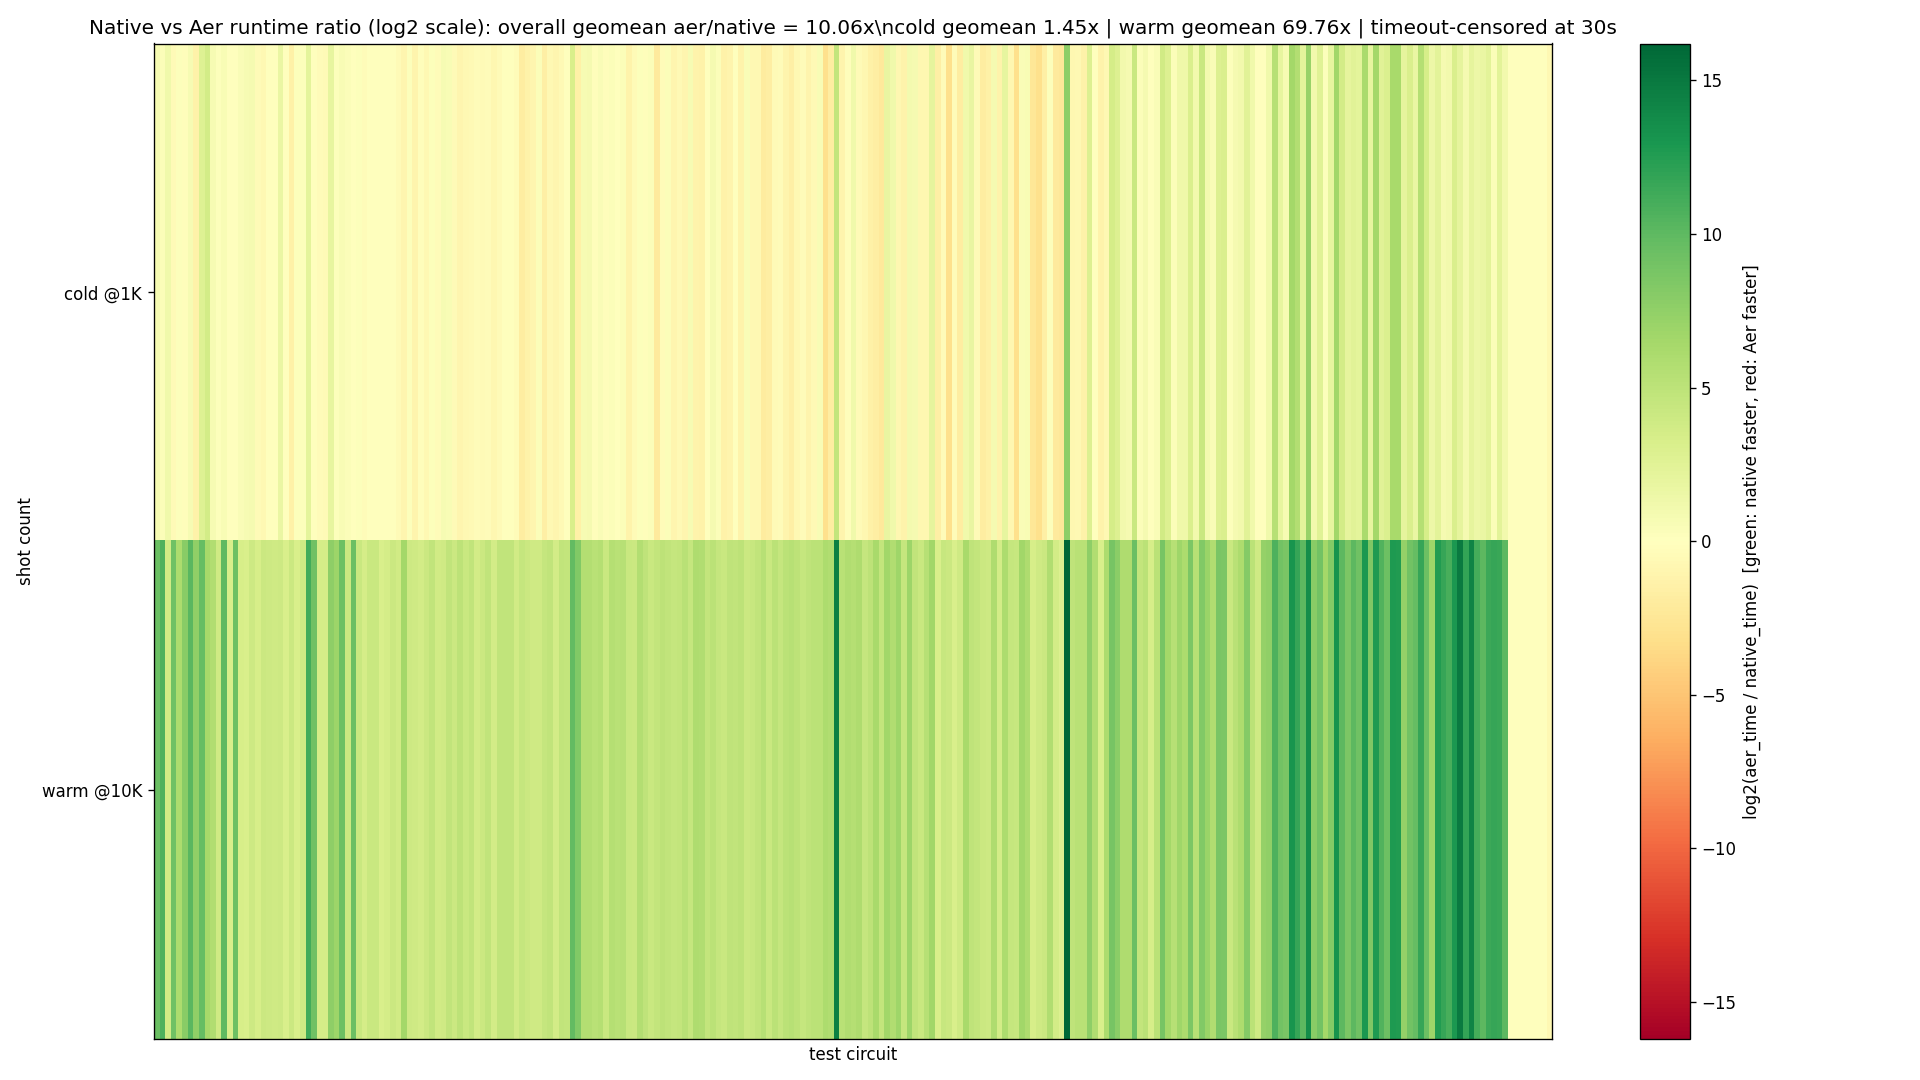
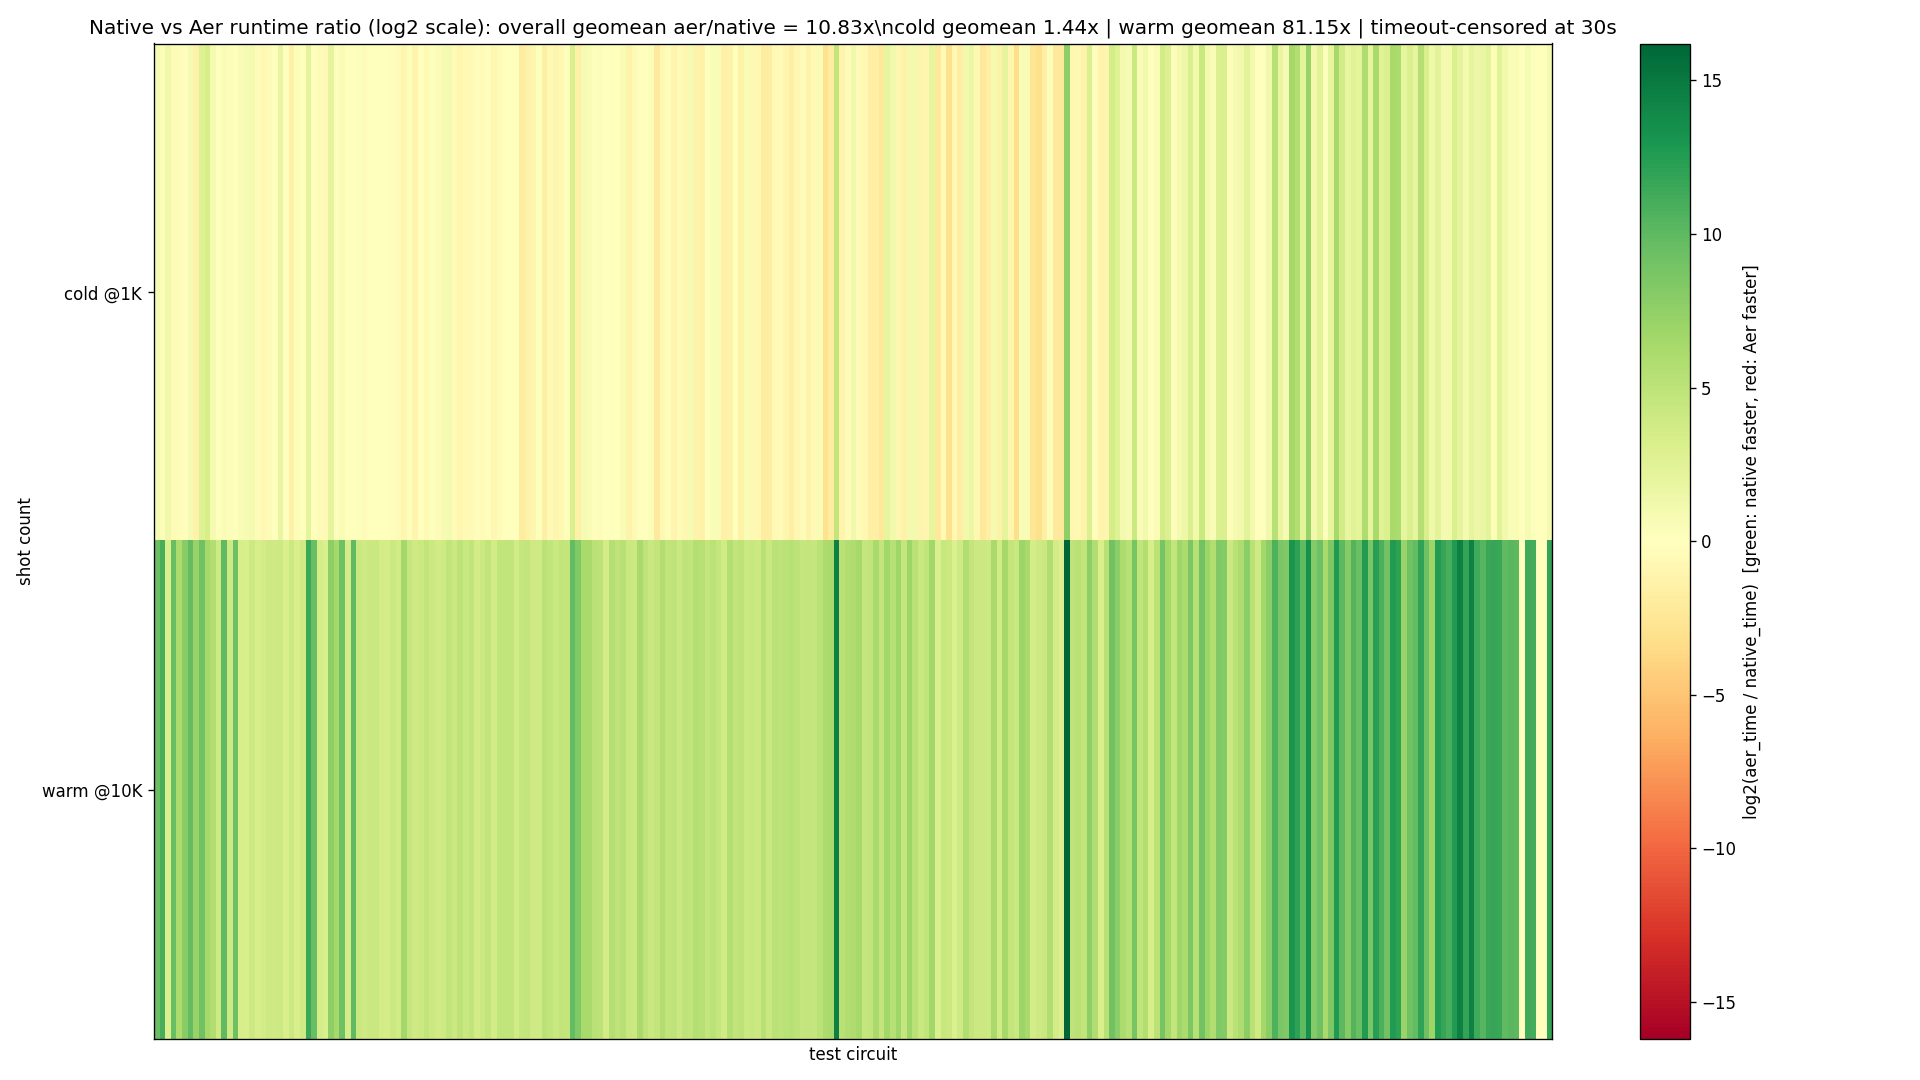
Record 1f90b60 checkpoint and refresh native-vs-aer heatmap

diff --git a/docs/experiment-log.md b/docs/experiment-log.md
@@ -66,3 +66,4 @@ Metric column: core-6 @1000 total for idx 0-24; full-suite @1000 total (complete
 | 47 | `9c51a57` | Added compile-time local monomial-stream fusion (1q/2q diagonal/permutation runs) plus a one-shot MPS kernel (`monomial_stream`) that applies an entire run in one launch by composing source-index mapping and phase per amplitude. This eliminated many repeated full-state passes in the 28q tail (`qpe_large_28` `22.74s→7.38s`, `ising_ordered_28` `18.64s→7.50s`, `w_state_large_28` `7.86s→2.29s` cold) and converted three prior aborts into completes (`clifford_t_28`, `ising_trotter_28`, `vqe_ansatz_28`). Full-suite completion increased (`235→238`), no correctness FAILs among completed cases. Censored native-vs-Aer geomean improved (`8.59x→9.07x`; cold `1.28x→1.35x`, warm `57.68x→61.07x`); aggregate totals rose because those newly completed 28q cases now contribute measured runtime. | 118.10s / 0.26s (238 cases) | Worked (coverage +3, geomean +5.6%; common-set cold 1.61x) |
 | 48 | `7386772` | Added exact compile-time fusion of contiguous local 1q/2q regions bounded to one qubit pair into a single 4x4 gate (no approximation, pure statevector algebra). This collapses decomposed dense SU(4)-style blocks before execution and sharply cuts dense-kernel dispatch count in large static circuits. It unlocked three previously timed-out dense 28q cases (`quantum_volume_28` `timeout→11.07s`, `su4_chain_28` `timeout→5.77s`, `supremacy_28` `timeout→25.07s` cold) while preserving correctness. Completion increased (`238→241`), with the remaining aborts now only the 30q MPSGraph `INT_MAX` runtime-error group. Censored native-vs-Aer geomean crossed 10x overall (`9.07x→10.23x`; cold `1.35x→1.51x`, warm `61.07x→69.45x`). | 121.19s / 0.28s (241 cases) | Worked (coverage +3, geomean +12.8%; common-set cold 1.49x) |
 | 49 | `7f96804` | Removed MPS size gates for the kernelized paths so dense-kernel dispatch and local monomial-stream fusion are allowed across qubit sizes (no `n_qubits >= 24/20` thresholds). This made the execution policy uniform, but did not address the 30q `complex64` allocation ceiling and left coverage unchanged (`241/249`). On the full suite it was effectively neutral-to-slightly regressive versus idx 48: censored geomean moved `10.23x→10.06x` overall (`cold 1.51x→1.45x`, `warm 69.45x→69.76x`), with several 16q static regressions offsetting small wins elsewhere. | 121.05s / 0.28s (241 cases) | Mixed (policy simplification, no broad speedup) |
+| 50 | `1f90b60` | Added a split-MSB static executor for oversized MPS states: when `complex64` allocation would exceed the backend `INT_MAX` limit, execute static 1q/2q circuits by splitting the state on qubit 0 into two half-states and applying exact cross-half updates for q0-touching gates. This removed the 30q runtime-error class and converted five 30q cases to full completes (`entangled_perturbation_30`, `iqp_forward_30`, `shallow_random_30`, `su4_chain_30`, `w_state_large_30`), leaving only three true timeouts (`ising_ordered_30`, `supremacy_30`, `vqe_ansatz_30`). Coverage increased (`241→246`), censored geomean improved (`10.23x→10.83x`; cold `1.51x→1.44x`, warm `69.45x→81.15x`). Aggregate totals rose because newly completed 30q cases now contribute measured runtime; on the prior 241-case overlap the run still improved (`cold 121.19s→120.08s`, warm `0.2839s→0.2801s`). | 217.44s / 0.36s (246 cases) | Worked (coverage +5; runtime-errors eliminated; common-set +0.9% cold) |

diff --git a/docs/progress-data.md b/docs/progress-data.md
@@ -45,6 +45,7 @@ Benchmark schedule: cold @1K (cache cleared) + warm @10K per circuit. Two calls 
 | 19 | `2026-02-12T233251.jsonl` | `9c51a57` | `9c51a57\n02-12T2332` | 118.1037 | 0.2567 | 238 |
 | 20 | `2026-02-13T000433.jsonl` | `7386772` | `7386772\n02-13T0004` | 121.1872 | 0.2839 | 241 |
 | 21 | `2026-02-13T004427.jsonl` | `7f96804` | `7f96804\n02-13T0044` | 121.0527 | 0.2843 | 241 |
+| 22 | `2026-02-13T010834.jsonl` | `1f90b60` | `1f90b60\n02-13T0108` | 217.4432 | 0.3645 | 246 |
 
 ## SOTA Reference — Qiskit Aer (Full Suite)
 
